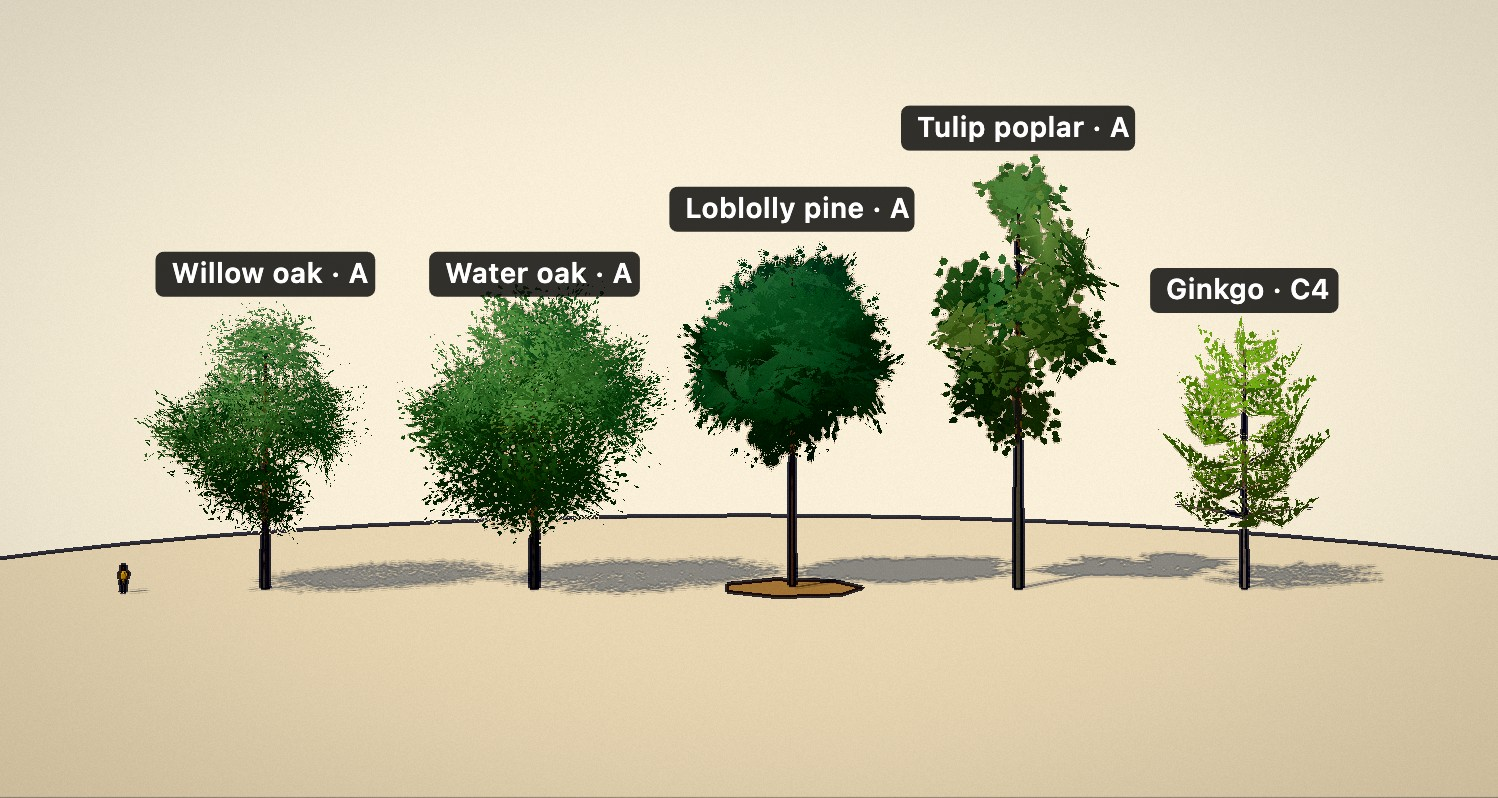
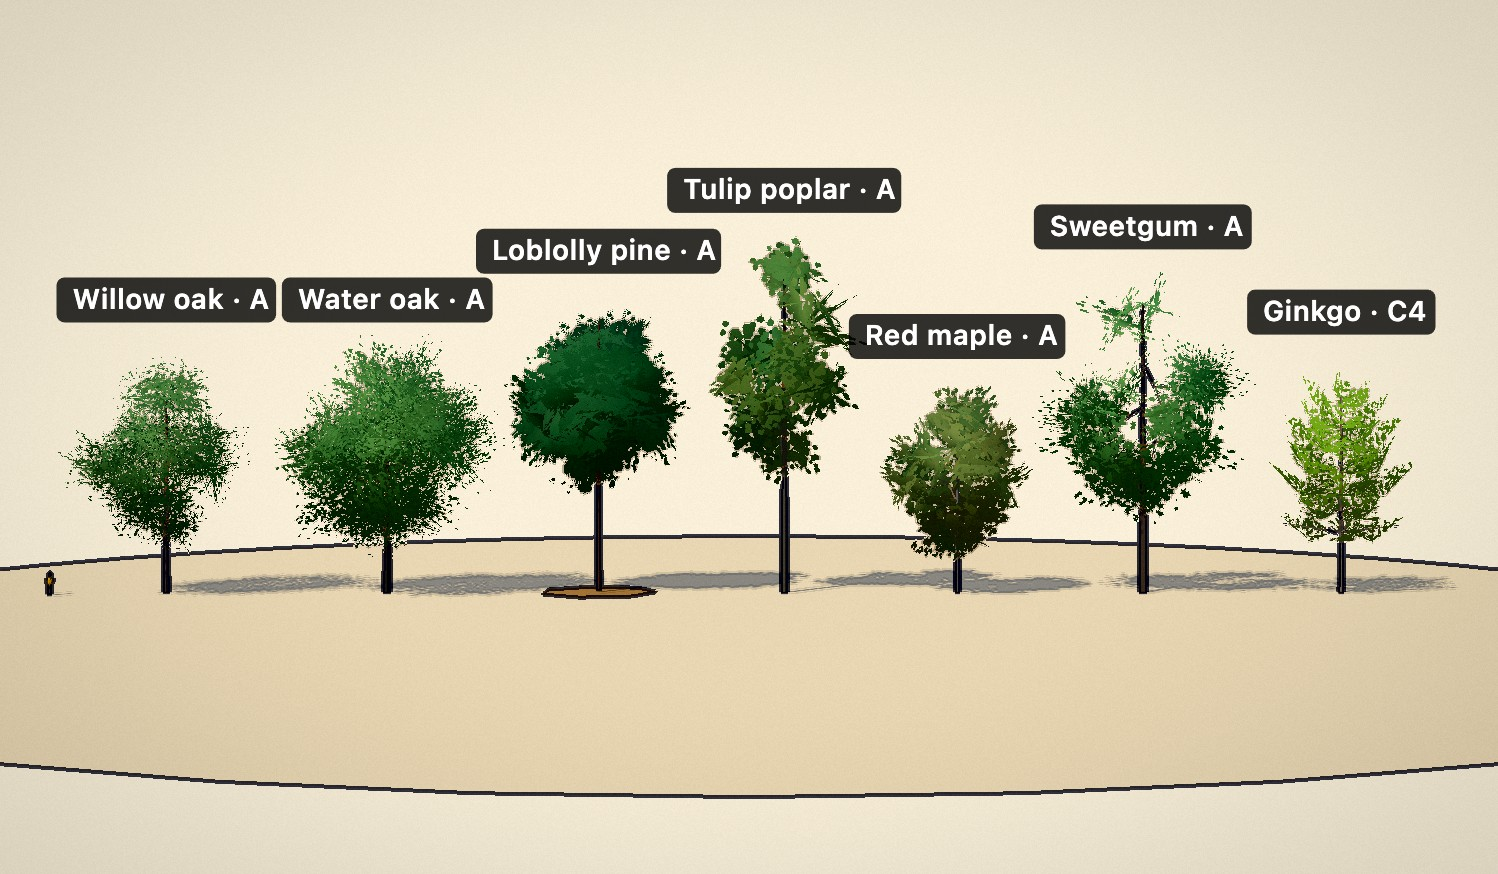
Add red maple and sweetgum to the lab with three renderings each
Red maple: rounded clusters on ascending limbs, a red flower haze in the bare crown
from late January, scarlet to orange by late October. Sweetgum: a straight leader
under glossy star leaves, turning purple, red, orange and yellow together late in
November. Sizes from NC State, UF, FEIS, GT (519 maples, 88 sweetgums) and Atlanta
champions; calendars from GA USA-NPN and the Georgia Forestry Commission, inferred
for Atlanta. Option A within 5% of the generic canopy's crown brightness.

diff --git a/web/src/trees/maple-sweetgum.ts b/web/src/trees/maple-sweetgum.ts
@@ -1,0 +1,142 @@
+/**
+ * Red maple (Acer rubrum) and sweetgum (Liquidambar styraciflua): Atlanta's fall colour. Red
+ * maple is a rounded, ascending crown on a smooth grey trunk that hazes red with flowers in late
+ * winter and turns scarlet early in the fall. Sweetgum keeps a straight leader under a crown of
+ * glossy star leaves, pyramidal when young and oval later, and turns late: purple, red, orange
+ * and yellow on one tree, with spiny gumballs hanging through the winter. Sources and dates:
+ * docs/tree-species.md#red-maple and #sweetgum.
+ */
+import { broadleafSpecies, keyedCalendar, type Look, type LookOption } from './looks';
+import type { Habit } from './broadleaf';
+
+const OPTIONS = (leafy: string): LookOption[] => [
+  { id: 'A', label: 'Branch-mass cards', technique: 'cards', ink: 2, tips: 3, units: { high: 26, low: 12 }, cover: 0.74,
+    note: `The ginkgo C4 technique on the species' structure: ${leafy}; warm silhouette ink and leaf tips close up.` },
+  { id: 'B', label: 'Cored masses', technique: 'cored', ink: 2, units: { high: 12, low: 10 }, cover: 0.8,
+    note: 'The same masses with a dark faceted core under the cards: fuller and more solid.' },
+  { id: 'C', label: 'Faceted clusters', technique: 'lobes', facets: 4, units: { high: 13, low: 9 }, cover: 0.85,
+    note: 'The same masses as faceted clusters with every facet inked: the house style, for comparison.' },
+];
+
+// ---- red maple -----------------------------------------------------------------------------
+
+const mapleHabit: Habit = {
+  // "A rounded crown and ascending branches" (NC State); oval to round, medium texture (UF
+  // ST041). Smooth light grey bark when young; twigs "slender, red, and shiny". GT crown base
+  // is about a quarter of height.
+  trunkTop: 0.85, crownBase: 0.2, widest: 0.46,
+  limbs: { high: 4, low: 3 }, limbAngle: 0.85, limbFrom: [0.24, 0.58], limbReach: 0.78,
+  ragged: 0.12, bark: '#8a7670', barkDark: '#7d7c78',
+  mass: { r: 0.7, low: -0.6, high: 0.45 },
+  bySize: {
+    sapling: { crownBase: 0.25, widest: 0.42, limbAngle: 0.95 },
+    young: { crownBase: 0.22, widest: 0.45 },
+    specimen: { trunkTop: 0.6, crownBase: 0.16, widest: 0.42, limbAngle: 0.7, limbReach: 0.85, ragged: 0.16 },
+  },
+};
+
+// GA USA-NPN (8 sites): open flowers Jan–Apr (most in Feb–Mar), leaves from March, coloured
+// leaves Sep–Nov (23 of 28 October records), none in leaf in December (0 of 3). Colour "may vary
+// from tree to tree" (NC State); trees spread ±8 days, so none holds leaves into December. The late-winter flower haze is drawn
+// as a thin red crown.
+const maplePalette = keyedCalendar([
+  { m: 1, d: 1, leaves: 0, a: '#7c6e66', b: '#7c6e66', carpet: 0.3, label: 'bare grey limbs, red buds' },
+  { m: 1, d: 28, leaves: 0.16, a: '#b23a36', b: '#c8503c', label: 'red flowers in the bare crown' },
+  { m: 3, d: 5, leaves: 0.22, a: '#a8443c', b: '#c4684c', label: 'red seed keys, first leaves' },
+  { m: 3, d: 28, leaves: 0.55, a: '#86a462', b: '#b07052', label: 'leafing out among red keys' },
+  { m: 4, d: 22, leaves: 1, a: '#6a9b68', b: '#7aa870', label: 'summer green' },
+  { m: 9, d: 18, leaves: 1, a: '#639262', b: '#9a6a46', label: 'green, the first red leaves' },
+  { m: 10, d: 24, leaves: 1, a: '#c23a2c', b: '#d6782e', label: 'scarlet to orange' },
+  { m: 11, d: 8, leaves: 0.5, a: '#b03a2e', b: '#c98c3a', carpet: 0.7, label: 'red and yellow, dropping' },
+  { m: 11, d: 22, leaves: 0.03, a: '#8e4a36', b: '#9a6a3a', carpet: 1, label: 'bare over a red leaf carpet' },
+]);
+
+export const redMaple = broadleafSpecies({
+  id: 'red-maple',
+  name: 'Red maple',
+  carpet: true,
+  // Ranges: NC State, UF ST041 and USFS FEIS; GT's 519 measured red maples by DBH class; Trees
+  // Atlanta's champion (McLendon Ave, 2011). No nursery size was found.
+  sizes: {
+    sapling: { heightM: 4.5, spreadM: 2, calliperM: 0.06 },
+    young: { heightM: 10.7, spreadM: 5.6, calliperM: 0.2 },
+    mature: { heightM: 15, spreadM: 10, calliperM: 0.45 },
+    specimen: { heightM: 22, spreadM: 17, calliperM: 0.9 },
+  },
+  ranges: {
+    sapling: { heightM: [3, 6.5], spreadM: [1.2, 3], calliperM: [0.04, 0.1] },
+    young: { heightM: [6, 12], spreadM: [3, 7], calliperM: [0.1, 0.3] },
+    mature: { heightM: [12.2, 22.9], spreadM: [7.6, 15.2], calliperM: [0.3, 0.76] },
+    specimen: { heightM: [18.9, 33.3], spreadM: [12, 18.3], calliperM: [0.76, 0.97] },
+  },
+  clumps: { high: 13, low: 7 },
+  offsetDays: 8,
+  habit: mapleHabit,
+  palette: maplePalette,
+});
+export const redMapleLook: Look = {
+  species: redMaple, habit: mapleHabit, leaf: 'palmate', palette: maplePalette, lowLift: -0.035,
+  options: OPTIONS('dense, rounded clusters on ascending limbs'),
+};
+
+// ---- sweetgum ------------------------------------------------------------------------------
+
+const gumHabit: Habit = {
+  // "Grows in a narrow pyramid … developing a more oval or rounded canopy as it grows older";
+  // the trunk "is normally straight and does not divide" (UF ST358). Grey-brown, deeply
+  // furrowed bark. GT crown base is about 0.28 of height.
+  trunkTop: 0.94, crownBase: 0.27, widest: 0.38,
+  limbs: { high: 4, low: 3 }, limbAngle: 0.5, limbFrom: [0.3, 0.75], limbReach: 0.8,
+  ragged: 0.14, bark: '#7a6e62', barkDark: '#5e544a',
+  mass: { r: 0.66, low: -0.65, high: 0.4 },
+  bySize: {
+    sapling: { crownBase: 0.12, widest: 0.22, limbFrom: [0.18, 0.75], mass: { r: 0.7, low: -0.85, high: 0.3 } },
+    young: { crownBase: 0.15, widest: 0.25, limbFrom: [0.2, 0.78], mass: { r: 0.68, low: -0.8, high: 0.35 } },
+    specimen: { crownBase: 0.3, widest: 0.42, limbAngle: 0.45, ragged: 0.18 },
+  },
+};
+
+// Colours late and holds its leaves long (NC State): "a brilliant mixture of yellows, oranges,
+// purples and reds", and in USDA zones 8–9 colour comes in early winter (UF). The Georgia
+// Forestry Commission saw "purple to yellow and some red" in NE Georgia on 11 Nov 2021. Tones
+// A and B run yellow-orange to purple, so every cluster lands somewhere between.
+const gumPalette = keyedCalendar([
+  { m: 1, d: 1, leaves: 0, a: '#6e6052', b: '#6e6052', carpet: 0.3, label: 'bare, dark gumballs hanging' },
+  { m: 2, d: 1, leaves: 0, a: '#6e6052', b: '#6e6052', carpet: 0, label: 'bare, dark gumballs hanging' },
+  { m: 3, d: 30, leaves: 0.08, a: '#a9c86c', b: '#b8d07a', label: 'buds breaking' },
+  { m: 4, d: 20, leaves: 0.7, a: '#86b462', b: '#98c06a', label: 'leafing out' },
+  { m: 5, d: 5, leaves: 1, a: '#6aa56e', b: '#7ab078', label: 'glossy deep green' },
+  { m: 10, d: 18, leaves: 1, a: '#609c66', b: '#7a9a58', label: 'glossy deep green' },
+  { m: 11, d: 5, leaves: 1, a: '#9c9c40', b: '#9a4848', label: 'turning, green to red' },
+  { m: 11, d: 22, leaves: 0.95, a: '#dca434', b: '#7a2e54', label: 'purple, red, orange and yellow' },
+  { m: 12, d: 8, leaves: 0.55, a: '#c8742e', b: '#7c3248', carpet: 0.6, label: 'red-orange and purple, dropping' },
+  { m: 12, d: 22, leaves: 0.05, a: '#9a5a3a', b: '#6a3a40', carpet: 1, label: 'bare over star leaves' },
+]);
+
+export const sweetgum = broadleafSpecies({
+  id: 'sweetgum',
+  name: 'Sweetgum',
+  carpet: true,
+  // Ranges: NC State, UF ST358 and USFS FEIS; GT's 88 measured sweetgums by DBH class; Trees
+  // Atlanta champions (Peachtree Battle, 2025; Parkwood Park, Decatur, 2014).
+  sizes: {
+    sapling: { heightM: 5, spreadM: 2, calliperM: 0.07 },
+    young: { heightM: 13, spreadM: 4.3, calliperM: 0.2 },
+    mature: { heightM: 24, spreadM: 13, calliperM: 0.7 },
+    specimen: { heightM: 36.6, spreadM: 27.4, calliperM: 1.25 },
+  },
+  ranges: {
+    sapling: { heightM: [3, 8.7], spreadM: [1.2, 3], calliperM: [0.04, 0.1] },
+    young: { heightM: [7, 15], spreadM: [3, 7], calliperM: [0.1, 0.3] },
+    mature: { heightM: [18.3, 30.5], spreadM: [10.7, 16.7], calliperM: [0.3, 0.91] },
+    specimen: { heightM: [27.9, 42.2], spreadM: [16.7, 27.4], calliperM: [0.91, 1.25] },
+  },
+  clumps: { high: 13, low: 7 },
+  offsetDays: 8,
+  habit: gumHabit,
+  palette: gumPalette,
+});
+export const sweetgumLook: Look = {
+  species: sweetgum, habit: gumHabit, leaf: 'star', palette: gumPalette, lowLift: -0.035,
+  options: OPTIONS('glossy star leaves in rounded masses along a straight leader'),
+};

diff --git a/web/src/models/main.ts b/web/src/models/main.ts
@@ -90,6 +90,8 @@ const SPECIES_NOTES: Record<string, string> = {
   'water-oak': 'The yard and woods oak: a short trunk splitting into big ascending leaders under a wider, more open crown of small spatulate leaves; a yellow week in late fall, and some leaves held into winter. ',
   'loblolly-pine': 'The tall pine of Atlanta’s yards and woods: a long clear red-brown trunk under a high, open, irregular crown, its needles in tufts at the tips of bare twigs. Evergreen; the inner needles brown and drop in fall. ',
   'tulip-poplar': 'The city’s tallest tree: a straight column of trunk under a narrow oval crown of big square-tipped leaves, golden yellow early in the fall and bare by mid-November. ',
+  'red-maple': 'A rounded, ascending crown on a smooth grey trunk: a red haze of flowers in the bare crown in late winter, and scarlet to orange early in the fall. ',
+  sweetgum: 'A straight leader under a crown of glossy star leaves, pyramidal when young and oval later; late in the fall it turns purple, red, orange and yellow at once. ',
   lineup: 'Every species at mature size in one season, so the board’s palette reads together. The rendering buttons pick the same option for every species that has it. ',
   ginkgo: 'A gangly single leader when young; the oldest fork low into near-upright stems under a broad crown. Leaf tufts on spur shoots, butter-yellow in November and a drop of a few days to a gold carpet. ',
 };

diff --git a/web/src/trees/index.ts b/web/src/trees/index.ts
@@ -2,6 +2,7 @@
 import { ginkgo } from './ginkgo';
 import { waterOak, willowOak } from './oaks';
 import { loblollyPine, tulipPoplar } from './pine-poplar';
+import { redMaple, sweetgum } from './maple-sweetgum';
 import type { Species } from './species';
 
-export const SPECIES: Species[] = [ginkgo, willowOak, waterOak, loblollyPine, tulipPoplar];
+export const SPECIES: Species[] = [ginkgo, willowOak, waterOak, loblollyPine, tulipPoplar, redMaple, sweetgum];

diff --git a/web/src/trees/looks-index.ts b/web/src/trees/looks-index.ts
@@ -2,5 +2,6 @@
 import type { Look } from './looks';
 import { waterOakLook, willowOakLook } from './oaks';
 import { loblollyPineLook, tulipPoplarLook } from './pine-poplar';
+import { redMapleLook, sweetgumLook } from './maple-sweetgum';
 
-export const LOOKS: Look[] = [willowOakLook, waterOakLook, loblollyPineLook, tulipPoplarLook];
+export const LOOKS: Look[] = [willowOakLook, waterOakLook, loblollyPineLook, tulipPoplarLook, redMapleLook, sweetgumLook];

diff --git a/docs/tree-species.md b/docs/tree-species.md
@@ -296,7 +296,7 @@ The willow oak row is superseded by [Species options](#willow-oak), which use so
 
 ## Species options (lab only)
 
-[Willow oak sheet](log/ui/tree-species/options-willow-oak.jpg) · [Water oak sheet](log/ui/tree-species/options-water-oak.jpg) · [Loblolly pine sheet](log/ui/tree-species/options-loblolly-pine.jpg) · [Tulip poplar sheet](log/ui/tree-species/options-tulip-poplar.jpg) · [Lineup, 5 Nov](log/ui/tree-species/lineup-fall.jpg) · [Lineup, 1 Jul](log/ui/tree-species/lineup-summer.jpg)
+[Willow oak sheet](log/ui/tree-species/options-willow-oak.jpg) · [Water oak sheet](log/ui/tree-species/options-water-oak.jpg) · [Loblolly pine sheet](log/ui/tree-species/options-loblolly-pine.jpg) · [Tulip poplar sheet](log/ui/tree-species/options-tulip-poplar.jpg) · [Red maple sheet](log/ui/tree-species/options-red-maple.jpg) · [Sweetgum sheet](log/ui/tree-species/options-sweetgum.jpg) · [Lineup, 15 Nov](log/ui/tree-species/lineup-15nov.jpg) · [Lineup, 1 Jul](log/ui/tree-species/lineup-summer.jpg)
 
 **Sam's picks.** A, branch-mass cards, for the oaks and generally for broadleaves (23 Nov). C4 for the ginkgo.
 
@@ -409,8 +409,10 @@ The tree-species agent made the ink change: foliage silhouettes are inked only o
 | Water oak | 0.239 / 0.823 | 0.242 / 0.817 |
 | Tulip poplar | 0.244 / 0.815 | 0.231 / 0.816 |
 | Loblolly pine | 0.152 / 0.949 | 0.180 / 0.885 |
+| Red maple | 0.241 / 0.803 | 0.229 / 0.809 |
+| Sweetgum | 0.237 / 0.829 | 0.238 / 0.829 |
 
-All broadleaves are within 4% of the baseline luminance. The loblolly follows City's darker pine green (`#355f3c`), whose sRGB luminance is about two thirds of the broadleaf green's, so its expected crown luminance is about 0.165. The grade pushes such dark greens to high saturation.
+All broadleaves are within 5% of the baseline luminance. The loblolly follows City's darker pine green (`#355f3c`), whose sRGB luminance is about two thirds of the broadleaf green's, so its expected crown luminance is about 0.165. The grade pushes such dark greens to high saturation.
 
 ### Loblolly pine
 
@@ -457,6 +459,50 @@ GT holds 957 active loblollies. Median height is 3.5 times spread, and median cr
 - Golden yellow by mid-October.
 - Dropping in early November, bare by about 18 Nov.
 - The pale "tulip" fruit on winter twigs is not drawn.
+
+### Red maple
+
+`web/src/trees/maple-sweetgum.ts`. "A rounded crown and ascending branches" ([NC State](https://plants.ces.ncsu.edu/plants/acer-rubrum/)), oval to round with medium texture (UF ST041). Bark is smooth and light grey when young, and the twigs are "slender, red, and shiny". The crown is drawn as dense rounded clusters on ascending limbs, with reddish limbs on a grey trunk.
+
+**Options:** A · branch-mass cards (palmate leaf atlas), 193 / 81 plus 120 in tips; B · cored masses, 191 / 97; C · faceted clusters, 193 / 105.
+
+| Class | Height (m) | Spread (m) | Calliper (m) | Nominal | Basis |
+|---|---|---|---|---|---|
+| Sapling | 3–6.5 | 1.2–3 | 0.04–0.1 | 4.5 / 2 / 0.06 | GT under 15 cm DBH: median 6.4 m by 2.6 m |
+| Young | 6–12 | 3–7 | 0.1–0.3 | 10.7 / 5.6 / 0.2 | GT 15–30 cm medians |
+| Mature | 12.2–22.9 | 7.6–15.2 | 0.3–0.76 | 15 / 10 / 0.45 | NC State "more commonly" 12.2–21.3 m; UF 18.3–22.9 m by 7.6–10.7 m; GT 30–91 cm medians 12.8–14.6 m by 8.2–12.0 m |
+| Specimen | 18.9–33.3 | 12–18.3 | 0.76–0.97 | 22 / 17 / 0.9 | Champion: McLendon Ave, 33.3 × 16.0 m, 0.89 m DBH (2011). Two 2020 rows are flagged "location is not accurate". GT over 91 cm: 18.9 m by 18.3 m |
+
+**Calendar.** Georgia USA-NPN has 8 sites. Open flowers run January to April. Of 28 October records, 23 were coloured; none of 3 December records was in leaf. In North Carolina, red maple flowers from January to March (NC State). Colour "may vary from tree to tree". **Inferred** for Atlanta:
+- A thin red crown of flowers from late January, then red keys with the first leaves in March.
+- Leafing out through late March, full by about 22 Apr.
+- Scarlet to orange by late October.
+- Dropping in mid-November, bare by about 22 Nov; trees spread ±8 days, so none is in leaf in December.
+
+The [Athens grove](https://commons.wikimedia.org/wiki/File:Olympic_Grove_of_12_Red_Maples.JPG) was nearly bare on 21 Nov 2012.
+
+### Sweetgum
+
+`web/src/trees/maple-sweetgum.ts`. "Grows in a narrow pyramid … developing a more oval or rounded canopy as it grows older", on a trunk that "is normally straight and does not divide" (UF ST358). The leaves are glossy five- to seven-pointed stars, and the bark is grey-brown and deeply furrowed.
+
+**Options:** A · branch-mass cards (star leaf atlas), 193 / 81 plus 84 in tips; B · cored masses, 191 / 97; C · faceted clusters, 193 / 105.
+
+| Class | Height (m) | Spread (m) | Calliper (m) | Nominal | Basis |
+|---|---|---|---|---|---|
+| Sapling | 3–8.7 | 1.2–3 | 0.04–0.1 | 5 / 2 / 0.07 | GT under 15 cm DBH: median 8.7 m by 2.7 m |
+| Young | 7–15 | 3–7 | 0.1–0.3 | 13 / 4.3 / 0.2 | GT 15–30 cm medians: narrow and pyramidal |
+| Mature | 18.3–30.5 | 10.7–16.7 | 0.3–0.91 | 24 / 13 / 0.7 | NC State 18.3–30.5 m by 12.2–15.2 m; UF ST358 10.7–15.2 m spread; GT 30–91 cm medians 24.7–25.0 m by 12.2–15.2 m |
+| Specimen | 27.9–42.2 | 16.7–27.4 | 0.91–1.25 | 36.6 / 27.4 / 1.25 | Champions: Peachtree Battle, 36.6 × 27.4 m, 1.25 m DBH (2025); Parkwood Park, Decatur, 42.2 m (2014) |
+
+**Calendar.** Sweetgum colours late and holds its leaves "for a long time" (NC State). UF says the colour comes in early winter in USDA zones 8–9. The Georgia Forestry Commission saw "purple to yellow and some red" in northeast Georgia on 11 Nov 2021. USA-NPN has too few Georgia records to use. **Inferred** for Atlanta:
+- Leafing out in April.
+- Turning from early November.
+- Every colour at once around 22 Nov.
+- Dropping into December, bare by about 22 Dec.
+
+Each tree's two tones run from yellow-orange to purple, mixed per leaf cluster.
+
+**Not drawn yet:** the dark gumballs that hang all winter. They are a candidate near-range extra under the same caps as leaf tips.
 
 ### Pair 2 gaps
 

diff --git a/docs/build-log.md b/docs/build-log.md
@@ -2529,3 +2529,12 @@ We have no lot lines, so every yard comes from one fact: which wall of the house
 ### 2026-11-23 — Three stripes are enough
 
 The third streetcar pass tried to reproduce every flourish on the car as two fans of curved bands. Sam's verdict was that it read as more complicated than the car, and the brighter body colour was worse than the deep indigo before it. His markup of a side photo reduced the graphic to its gesture: three broad parallel stripes, lime, light cyan and violet, rising across each cab section from the low front to the roof line behind the first door. Straight stripes, each 0.7 m wide, now do exactly that, mirrored at the other end. The detail work moved to the edges. A flat polygon laid over the curved eave came out ragged, so the stripes now stop where the side meets the eave, which reads as the roof line from the side. They also run over the doors, as the vinyl does, and turn into tinted film where they cross the windows. Lab only; web rebuild. [Car 1003 compare](log/streetcar/s70-stripes-1003.jpg) · [Lab before and after](log/streetcar/s70-stripes-lab.jpg)
+
+### 2026-11-23 — The fall-colour pair
+
+**Red maple** is a rounded crown on ascending limbs, scarlet to orange by late October. It reddens a second time in late winter, when its flowers fill the bare crown. The lab draws that red haze with the leaf-thinning machinery the oaks use for leaf drop. In February a red maple's crown is about 16% "in leaf", and every visible leaf is a red flower.
+
+**Sweetgum** colours last and keeps its leaves into December. Its trick is that one tree shows purple, red, orange and yellow at once. Each tree carries two seasonal tones, yellow-orange and purple. Every leaf cluster mixes them in its own proportion, so the colours scatter through the crown with no extra triangles.
+
+Both options A came in within 5% of the generic canopy's brightness. Their summer greens were tuned with `__lab.crownStats()`, the same way as the first two pairs. [Red maple sheet](log/ui/tree-species/options-red-maple.jpg) · [Sweetgum sheet](log/ui/tree-species/options-sweetgum.jpg) · [All species, 15 Nov](log/ui/tree-species/lineup-15nov.jpg)
+
